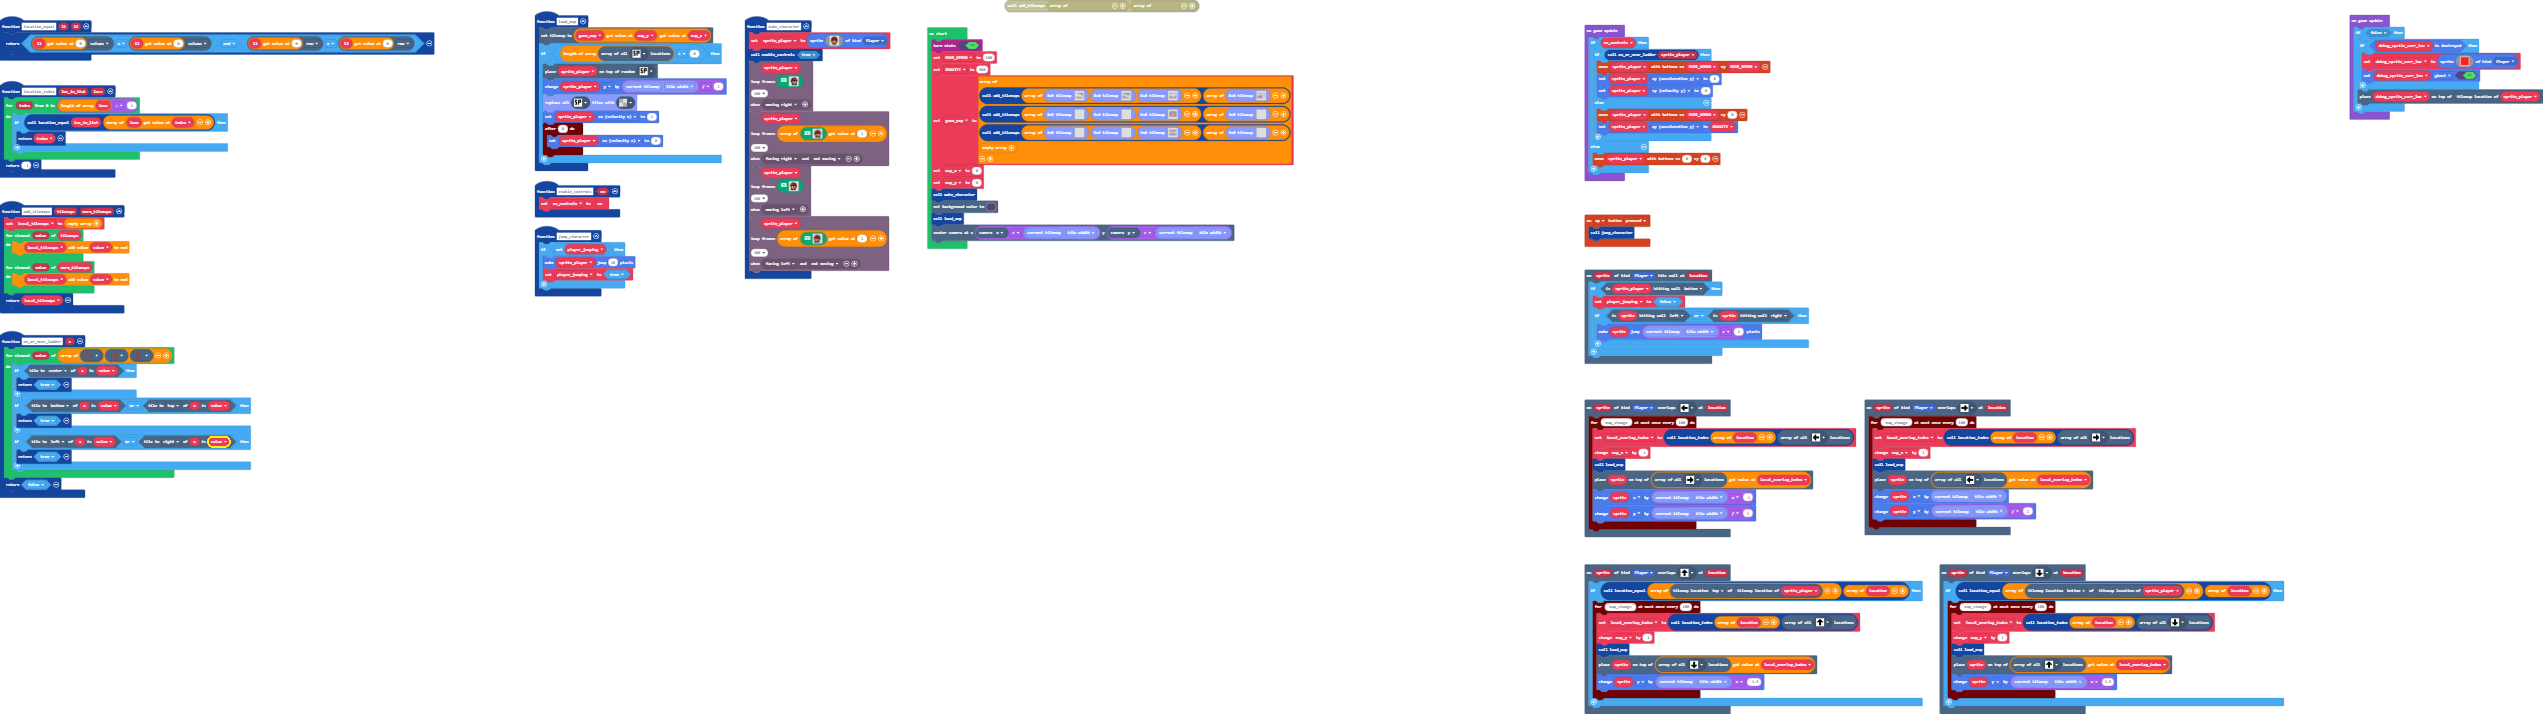
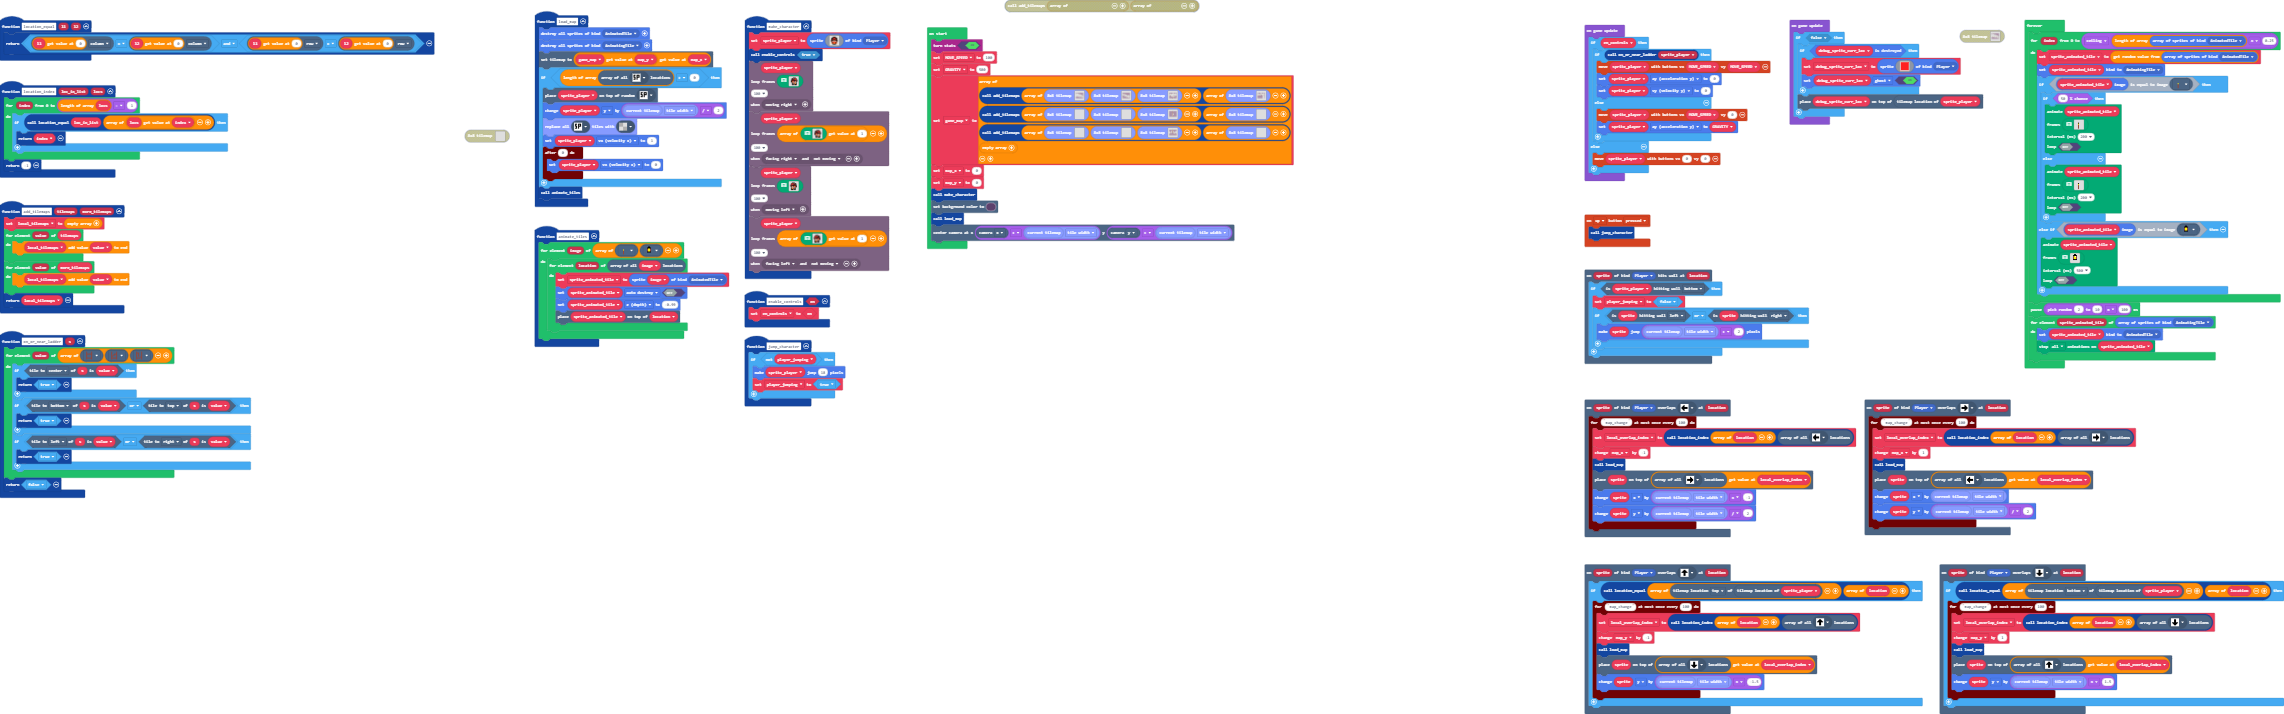
Animated tiles but sus

diff --git a/tilemap.g.ts b/tilemap.g.ts
@@ -11,8 +11,6 @@ namespace myTiles {
     //% fixedInstance jres blockIdentity=images._tile
     export const tile5 = image.ofBuffer(hex``);
     //% fixedInstance jres blockIdentity=images._tile
-    export const tile8 = image.ofBuffer(hex``);
-    //% fixedInstance jres blockIdentity=images._tile
     export const tile9 = image.ofBuffer(hex``);
     //% fixedInstance jres blockIdentity=images._tile
     export const tile10 = image.ofBuffer(hex``);
@@ -62,6 +60,8 @@ namespace myTiles {
     export const tile28 = image.ofBuffer(hex``);
     //% fixedInstance jres blockIdentity=images._tile
     export const tile29 = image.ofBuffer(hex``);
+    //% fixedInstance jres blockIdentity=images._tile
+    export const tile8 = image.ofBuffer(hex``);
 
     helpers._registerFactory("tilemap", function(name: string) {
         switch(helpers.stringTrim(name)) {
@@ -463,6 +463,43 @@ namespace myTiles {
 . . . . . . . . . . . . . . . . . . . . 
 . . . . . . . . . . . . . . . . . . . . 
 `, [myTiles.transparency8], TileScale.Eight);
+            case "level29":
[1 lines of base64/hex data omitted]
+. . . . . . . . . . . . . . . . . . . . 
+. . . . . . . . . . . . . . . . . . . . 
+. . . . . . . . . . . . . . . . . . . . 
+. . . . . . . . . . . . . . . . . . . . 
+. . . . . . . . . . . . . . . . . . . . 
+. . . . . . . . . . . . . . . . . . . . 
+. . . . . . . . . . . . . . . . . . . . 
+. . . . . . . . . . . . . . . . . . . . 
+. . . . . . . . . . . . . . . . . . . . 
+. . . . . . . . . . . . . . . . . . . . 
+. . . . . . . . . . . . . . . . . . . . 
+. . . . . . . . . . . . . . . . . . . . 
+. . . . . . . . . . . . . . . . . . . . 
+. . . . . . . . . . . . . . . . . . . . 
+. . . . . . . . . . . . . . . . . . . . 
+`, [myTiles.transparency8], TileScale.Eight);
+            case "level30":
+            case "level30":return tiles.createTilemap(hex`1000100000000000000000000000000000000000000000000000000000000000000000000000000000000000000000000000000000000000000000000000000000000000000000000000000000000000000000000000000000000000000000000000000000000000000000000000000000000000000000000000000000000000000000000000000000000000000000000000000000000000000000000000000000000000000000000000000000000000000000000000000000000000000000000000000000000000000000000000000000000000000000000000000000000000000000000000000000000000000000000000000000000000000000000000000000000000`, img`
+. . . . . . . . . . . . . . . . 
+. . . . . . . . . . . . . . . . 
+. . . . . . . . . . . . . . . . 
+. . . . . . . . . . . . . . . . 
+. . . . . . . . . . . . . . . . 
+. . . . . . . . . . . . . . . . 
+. . . . . . . . . . . . . . . . 
+. . . . . . . . . . . . . . . . 
+. . . . . . . . . . . . . . . . 
+. . . . . . . . . . . . . . . . 
+. . . . . . . . . . . . . . . . 
+. . . . . . . . . . . . . . . . 
+. . . . . . . . . . . . . . . . 
+. . . . . . . . . . . . . . . . 
+. . . . . . . . . . . . . . . . 
+. . . . . . . . . . . . . . . . 
+`, [myTiles.transparency16], TileScale.Sixteen);
             case "map_0_1":
             case "level2":return tiles.createTilemap(hex`160011000000000000000000000000000000000000000000000000010101010101010101010101010101010101010100000100000000080000010101010101010101010101000001000000000000000001010101010101010101010000000000000000000000090001010101010101010100000000000000000000000000000000010101010101000000000000000000000000000000000008000101010000000000000000000000000000000000000000010100000000000000000000000000000000000000000101000000000200000000000000000000000000000000010000000000000400000002000000000200000000000003000005000000000000000000000000000000000000030001010101010101010000000007060000000002000300010101010101010101010101010101010000000003000101010101010101010101010101010101000000030001010101010101010101010101010101010101010000000000000000000000000000000000000000000000`, img`
 2222222222222222222222
@@ -583,6 +620,24 @@ namespace myTiles {
 2222222222...222222222
 2222222222...222222222
 `, [myTiles.transparency8,myTiles.tile10,myTiles.tile5,myTiles.tile8,myTiles.tile7,myTiles.tile4,myTiles.tile9,myTiles.tile15,myTiles.tile20,myTiles.tile21,myTiles.tile22,myTiles.tile24,myTiles.tile25,myTiles.tile28], TileScale.Eight);
+            case "level31":
[1 lines of base64/hex data omitted]
+. . . . . . . . . . . . . . . . . . . . 
+. . . . . . . . . . . . . . . . . . . . 
+. . . . . . . . . . . . . . . . . . . . 
+. . . . . . . . . . . . . . . . . . . . 
+. . . . . . . . . . . . . . . . . . . . 
+. . . . . . . . . . . . . . . . . . . . 
+. . . . . . . . . . . . . . . . . . . . 
+. . . . . . . . . . . . . . . . . . . . 
+. . . . . . . . . . . . . . . . . . . . 
+. . . . . . . . . . . . . . . . . . . . 
+. . . . . . . . . . . . . . . . . . . . 
+. . . . . . . . . . . . . . . . . . . . 
+. . . . . . . . . . . . . . . . . . . . 
+. . . . . . . . . . . . . . . . . . . . 
+. . . . . . . . . . . . . . . . . . . . 
+`, [myTiles.transparency8], TileScale.Eight);
         }
         return null;
     })
@@ -597,8 +652,6 @@ namespace myTiles {
             case "transparency8":return transparency8;
             case "rock":
             case "tile5":return tile5;
-            case "torch":
-            case "tile8":return tile8;
             case "to_right_map":
             case "tile9":return tile9;
             case "to_left_map":
@@ -649,6 +702,8 @@ namespace myTiles {
             case "tile28":return tile28;
             case "slightly_broken_ladder_2":
             case "tile29":return tile29;
+            case "torch":
+            case "tile8":return tile8;
         }
         return null;
     })

diff --git a/main.ts b/main.ts
@@ -1,3 +1,7 @@
+namespace SpriteKind {
+    export const AnimatedTile = SpriteKind.create()
+    export const AnimatingTile = SpriteKind.create()
+}
 function location_index (loc_in_list: any[], locs: any[]) {
     for (let index = 0; index <= locs.length - 1; index++) {
         if (location_equal(loc_in_list, [locs[index]])) {
@@ -37,6 +41,8 @@ function jump_character () {
     }
 }
 function load_map () {
+    sprites.destroyAllSpritesOfKind(SpriteKind.AnimatedTile)
+    sprites.destroyAllSpritesOfKind(SpriteKind.AnimatingTile)
     tiles.setCurrentTilemap(game_map[map_y][map_x])
     if (tiles.getTilesByType(assets.tile`spawn_point`).length > 0) {
         tiles.placeOnRandomTile(sprite_player, assets.tile`spawn_point`)
@@ -47,6 +53,7 @@ function load_map () {
             sprite_player.vx = 0
         })
     }
+    animate_tiles()
 }
 scene.onOverlapTile(SpriteKind.Player, assets.tile`to_right_map`, function (sprite, location) {
     timer.throttle("map_change", 100, function () {
@@ -110,6 +117,16 @@ scene.onOverlapTile(SpriteKind.Player, assets.tile`to_left_map`, function (sprit
         sprite.y += tileUtil.tilemapProperty(tileUtil.currentTilemap(), tileUtil.TilemapProperty.TileWidth) / 2
     })
 })
+function animate_tiles () {
+    for (let image2 of [assets.tile`torch`, assets.tile`lantern`]) {
+        for (let location of tiles.getTilesByType(image2)) {
+            sprite_animated_tile = sprites.create(image2, SpriteKind.AnimatedTile)
+            sprite_animated_tile.setFlag(SpriteFlag.AutoDestroy, false)
+            sprite_animated_tile.z = -0.99
+            tiles.placeOnTile(sprite_animated_tile, location)
+        }
+    }
+}
 scene.onOverlapTile(SpriteKind.Player, assets.tile`to_bottom_map`, function (sprite, location) {
     if (location_equal([sprite_player.tilemapLocation().getNeighboringLocation(CollisionDirection.Bottom)], [location])) {
         timer.throttle("map_change", 100, function () {
@@ -136,6 +153,7 @@ function on_or_near_ladder (s: Sprite) {
     return false
 }
 let debug_sprite_curr_loc: Sprite = null
+let sprite_animated_tile: Sprite = null
 let en_controls = false
 let local_overlap_index = 0
 let player_jumping = false
@@ -189,5 +207,40 @@ game.onUpdate(function () {
             debug_sprite_curr_loc.setFlag(SpriteFlag.Ghost, true)
         }
         tiles.placeOnTile(debug_sprite_curr_loc, sprite_player.tilemapLocation())
+    }
+})
+forever(function () {
+    for (let index = 0; index <= Math.ceil(sprites.allOfKind(SpriteKind.AnimatedTile).length * 0.25); index++) {
+        sprite_animated_tile = sprites.allOfKind(SpriteKind.AnimatedTile)._pickRandom()
+        sprite_animated_tile.setKind(SpriteKind.AnimatingTile)
+        if (sprite_animated_tile.image.equals(assets.tile`torch`)) {
+            if (Math.percentChance(50)) {
+                animation.runImageAnimation(
+                sprite_animated_tile,
+                assets.animation`torch_animation`,
+                200,
+                false
+                )
+            } else {
+                animation.runImageAnimation(
+                sprite_animated_tile,
+                assets.animation`torch_animation_2`,
+                200,
+                false
+                )
+            }
+        } else if (sprite_animated_tile.image.equals(assets.tile`lantern`)) {
+            animation.runImageAnimation(
+            sprite_animated_tile,
+            assets.animation`lantern_animation`,
+            500,
+            false
+            )
+        }
+    }
+    pause(randint(2, 10) * 100)
+    for (let sprite_animated_tile of sprites.allOfKind(SpriteKind.AnimatingTile)) {
+        sprite_animated_tile.setKind(SpriteKind.AnimatedTile)
+        animation.stopAnimation(animation.AnimationTypes.All, sprite_animated_tile)
     }
 })

diff --git a/images.g.ts b/images.g.ts
@@ -100,6 +100,102 @@ namespace myImages {
 . . . . . . f f f f f f . . . . 
 . . . . . . . f f f . . . . . . 
 `];
+            case "torch_animation":
+            case "anim3":return [img`
+. . . . . . . . 
+. . . . . . . . 
+. . . f . . . . 
+. . . 5 . . . . 
+. . . e . . . . 
+. . . e . . . . 
+. . . e . . . . 
+. . . e . . . . 
+`, img`
+. . . . . . . . 
+. . . . f . . . 
+. . . . . . . . 
+. . . 5 . . . . 
+. . . e . . . . 
+. . . e . . . . 
+. . . e . . . . 
+. . . e . . . . 
+`, img`
+. . . f . . . . 
+. . . . . . . . 
+. . . . . . . . 
+. . . 5 . . . . 
+. . . e . . . . 
+. . . e . . . . 
+. . . e . . . . 
+. . . e . . . . 
+`, img`
+. . . . . . . . 
+. . . . . . . . 
+. . . . . . . . 
+. . . 5 . . . . 
+. . . e . . . . 
+. . . e . . . . 
+. . . e . . . . 
+. . . e . . . . 
+`];
+            case "torch_animation_2":
+            case "anim4":return [img`
+. . . . . . . . 
+. . . . . . . . 
+. . . f . . . . 
+. . . 5 . . . . 
+. . . e . . . . 
+. . . e . . . . 
+. . . e . . . . 
+. . . e . . . . 
+`, img`
+. . . . . . . . 
+. . f . . . . . 
+. . . . . . . . 
+. . . 5 . . . . 
+. . . e . . . . 
+. . . e . . . . 
+. . . e . . . . 
+. . . e . . . . 
+`, img`
+. f . . . . . . 
+. . . . . . . . 
+. . . . . . . . 
+. . . 5 . . . . 
+. . . e . . . . 
+. . . e . . . . 
+. . . e . . . . 
+. . . e . . . . 
+`, img`
+. . . . . . . . 
+. . . . . . . . 
+. . . . . . . . 
+. . . 5 . . . . 
+. . . e . . . . 
+. . . e . . . . 
+. . . e . . . . 
+. . . e . . . . 
+`];
+            case "lantern_animation":
+            case "anim5":return [img`
+. . . f f . . . 
+. . f f f f . . 
+. . e 5 1 e . . 
+. . e 5 5 e . . 
+. . e 5 5 e . . 
+. . f f f f . . 
+. . . . . . . . 
+. . . . . . . . 
+`, img`
+. . . f f . . . 
+. . f f f f . . 
+. . e 5 5 e . . 
+. . e 5 5 e . . 
+. . e 5 5 e . . 
+. . f f f f . . 
+. . . . . . . . 
+. . . . . . . . 
+`];
         }
         return null;
     })
